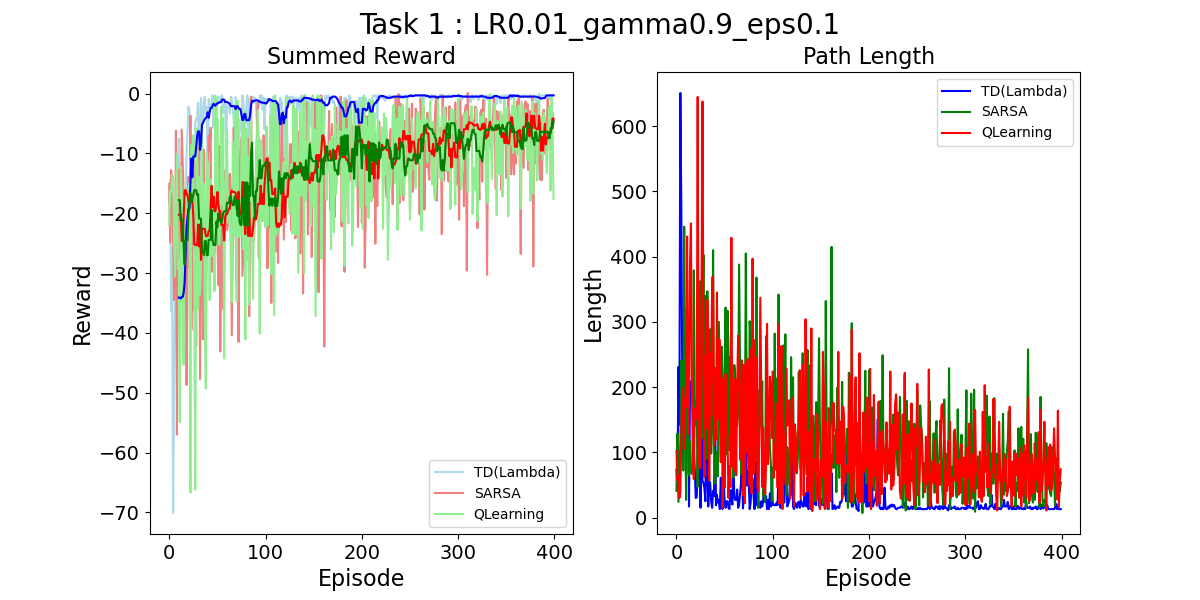
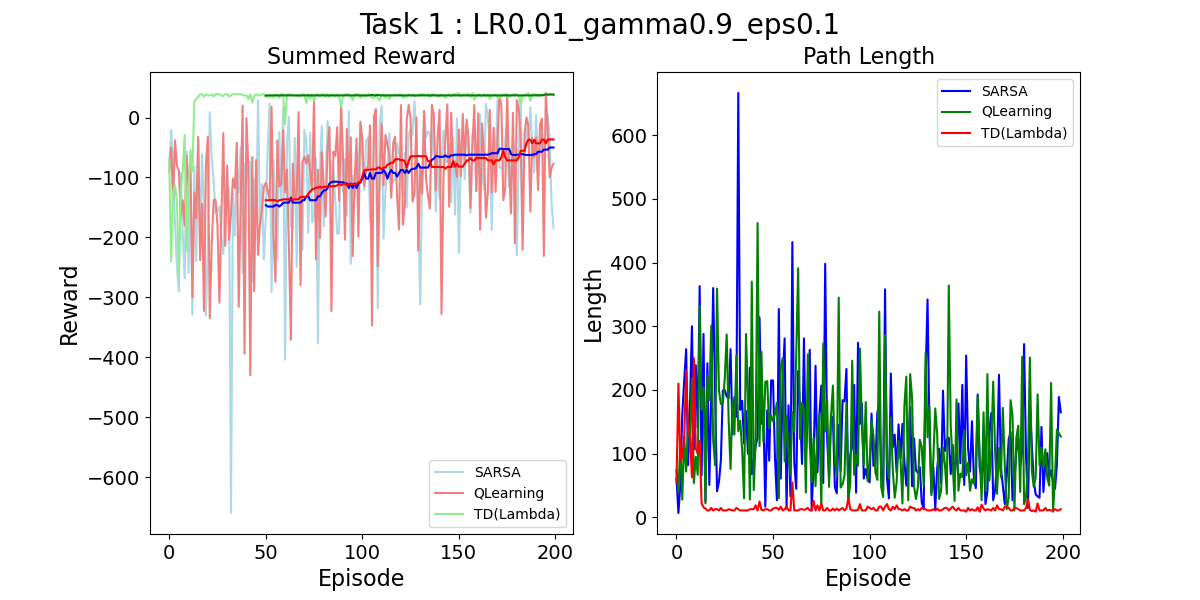
updated plots in README to match the new actual reward function, the scale was wrong.

diff --git a/README.md b/README.md
@@ -112,12 +112,11 @@ The plots will look like a random walk at the beginning:
 But after a while, patterns will emerge, and even some approaches that don't seem promising at first, could end up winning in the end.
 ![alt text](attachments/exp_T1_ep500_20250519_160016_2_10x10_jointplot.png)
 
-The three tasks *should* be increasing in difficulty for your algorithms:
+The three tasks *should* be increasing in difficulty for your algorithms (well at least Task 3 should be harder):
 ![alt text](attachments/exp_T2_ep100_d20250526_t101649_jointplot.png)
 ![alt text](attachments/exp_T3_ep100_d20250526_t112625_jointplot.png)
 
 But after *"a while"* (which varies for every domain/algorithm/hyperparam combination) they should start improving, even on the harder problems.
-![alt text](attachments/exp_T3_ep1000_20250519_171219_1_10x10_jointplot.png)
 
 And there might be surprises, for example, sometimes even a "better" algorithm might have trouble with a task. This kind of behaviour could be a bug in your code, or it could be a tricky edge case that penalizes an algorithm for it's assumptions *(I'm actually not sure which of these is true in this plot yet)*.
 ![alt text](attachments/exp_20250519_170020_2_10x10_jointplot.png)
